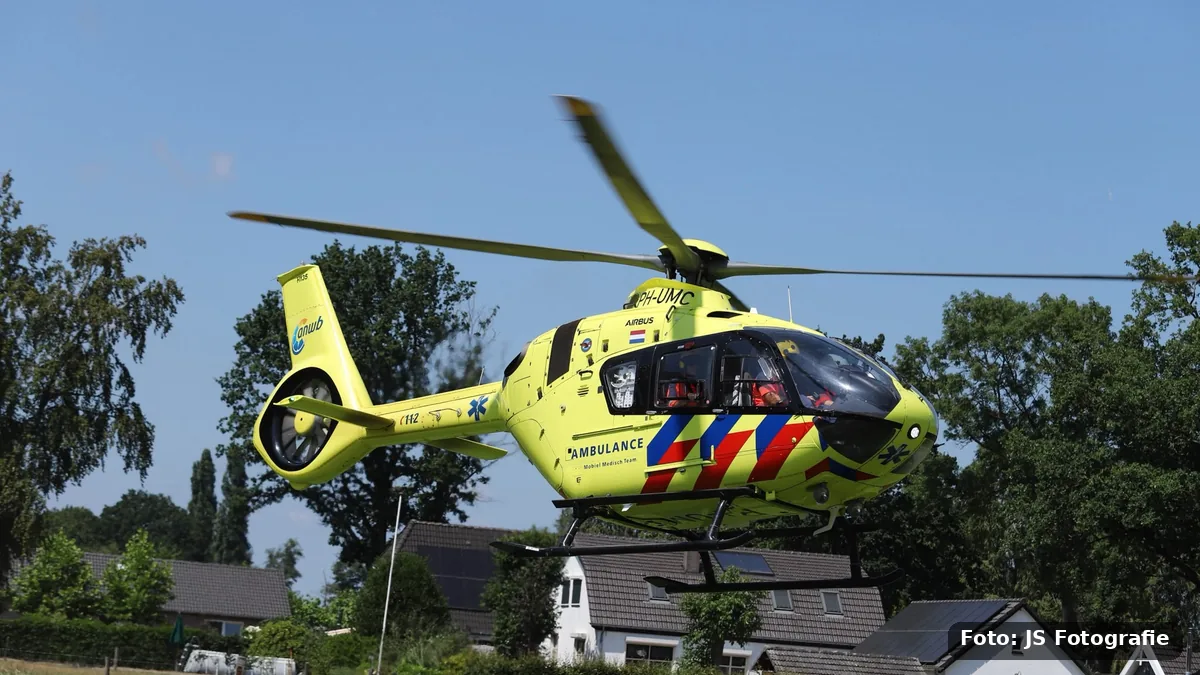
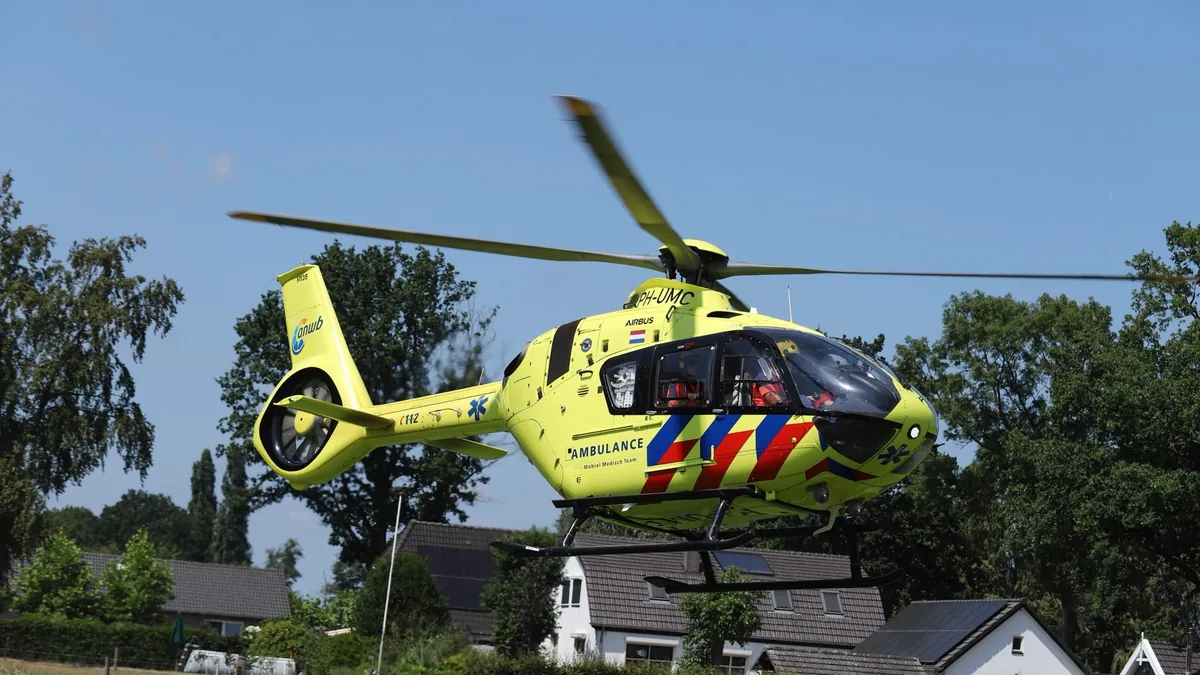
Nieuws: stock photos rebuilt from the originals without the photographer's label
Claude-Session: https://claude.ai/code/session_01CXMY93tUivvJNkpfMAQTgP

Changed region(s): [[0.7708, 0.9022, 0.9867, 0.9956]]

diff --git a/worker/test/nieuws.test.js b/worker/test/nieuws.test.js
@@ -93,7 +93,7 @@ test("sync: police (first run silent, later new ones pushed), warnings, beheer m
   assert.equal(nieuw.length, 1);
   const lijst = await listNieuws(env, "https://api.test", { soort: "politie" });
   assert.equal(lijst.length, 2, "Deventer is not ours");
-  assert.equal(lijst[0].afbeelding, "https://a-alerts.nl/assets/img/nieuws/politie-getuigen.webp?v=4");
+  assert.equal(lijst[0].afbeelding, "https://a-alerts.nl/assets/img/nieuws/politie-getuigen.webp?v=5");
   assert.match(lijst[0].link, /^https:\/\/a-alerts\.nl\/nieuws\/p-[0-9a-f]{12}\/$/);
 
   // A missing child alert with its official messages.
@@ -108,7 +108,7 @@ test("sync: police (first run silent, later new ones pushed), warnings, beheer m
   const live = await getNieuws(env, "https://api.test", lid);
   assert.equal(live.soort, "liveblog");
   assert.equal(live.tijdlijn.length, 1);
-  assert.equal(live.afbeelding, "https://a-alerts.nl/assets/img/nieuws/vermistkind.webp?v=4");
+  assert.equal(live.afbeelding, "https://a-alerts.nl/assets/img/nieuws/vermistkind.webp?v=5");
   const weer = (await listNieuws(env, "https://api.test", { soort: "weer" }))[0];
   assert.equal(weer.titel, "Code geel voor windstoten");
   // Same code: the article follows. Another code (also code groen when lifted): a new article, the earlier one stays.
@@ -184,7 +184,7 @@ test("112 Nieuws: title, short intro and link only; Loenen only when in Gelderla
   assert.equal(parse112(`<rss>${item("Ongeval in Loenen", ["Utrecht", "Loenen aan de Vecht"])}</rss>`, "Loenen").length, 0);
   assert.equal(parse112(`<rss>${item("Ongeval in Loenen", ["Gelderland", "Loenen"])}</rss>`, "Loenen").length, 1);
   assert.equal(korteIntro("<p>Kort.</p>"), "Kort.");
-  assert.match(foto112({ id: "r-0123456789ab", categorie: "brand" }), /\/nieuws\/112-brand-\d\.webp\?v=4$/);
+  assert.match(foto112({ id: "r-0123456789ab", categorie: "brand" }), /\/nieuws\/112-brand-\d\.webp\?v=5$/);
 });
 
 test("stock photos: JS Fotografie first, never the same photo twice in a row, credit in the API", async () => {

diff --git a/worker/src/nieuws.js b/worker/src/nieuws.js
@@ -14,7 +14,7 @@ const KIND = ["amber", "vermistkind"];
 const IMG = "https://a-alerts.nl/assets/img/nieuws/";
 // New version of the images (browsers keep them 30 days): raise when an image is replaced under the same name.
 // Raise when images change or are added: the site caches images 30 days, also a 404 seen before a new file was live.
-const IMG_V = "?v=4";
+const IMG_V = "?v=5";
 const SITE = "https://a-alerts.nl/nieuws/";
 const DAY = 86_400_000;
 const CENTRUM = { lat: 52.2112, lon: 5.9699 };

diff --git a/tools/nieuws_deel.py b/tools/nieuws_deel.py
@@ -29,7 +29,7 @@ def og_image(url):
     """Static images as JPEG 1200×630 (WhatsApp does not always show WebP); own photos from the beheer are JPEG already."""
     u = (url or "").split("?")[0]
     if u.startswith(IMG) and u.endswith(".webp"):
-        return IMG + "og/" + u[len(IMG):-5] + ".jpg", "image/jpeg", 1200, 630
+        return IMG + "og/" + u[len(IMG):-5] + ".jpg?v=5", "image/jpeg", 1200, 630
     if "/v1/nieuws/foto/" in u:
         return url, "image/jpeg", None, None
     return SITE + "/og/a-alerts.jpg", "image/jpeg", 1200, 630

diff --git a/CHANGELOG.md b/CHANGELOG.md
@@ -1,5 +1,10 @@
 # Changelog
 
+## Nieuws en website (13 november 2026)
+- Stockfoto's bij het nieuws: het label "Foto: JS Fotografie" stond nog in vijf foto's zelf (en in hun deelafbeeldingen). Die zijn opnieuw gemaakt uit de originelen, zonder label; de naam staat nu nergens meer (`?v=5`).
+- Pager: de kaart van een helikopter of vliegtuig heeft marges, schuift binnen het paneel en is op een telefoon een blad onderaan; de kaartlagen staan per categorie op een eigen regel en het paneel is niet breder dan nodig.
+- Status: de controle van de website probeert het na een fout nog één keer voordat er een storing wordt gemeld (tijdens het uploaden van een nieuwe versie geeft de host kort HTTP 403).
+
 ## A-Alerts 2.0.1 (build 88)
 - Verloop en "Eenheden bij deze inzet": een herbezetting van een kazerne ("Herbezet./kazerneren") of een proefalarm hoort nooit bij een inzet, ook niet als dezelfde eenheid is opgeroepen. App, Android (daar nu ook besteld vervoer B1–B3 uitgesloten) en pager.
 
